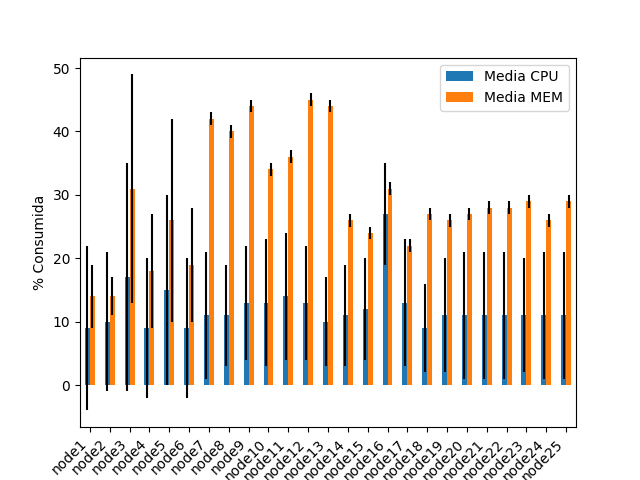
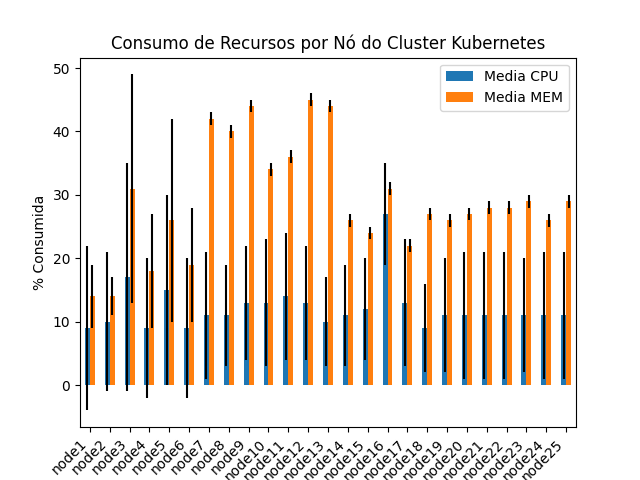
Update Graphics

Changed region(s): [[0.1562, 0.0625, 0.8438, 0.125]]

diff --git a/performance-analysis/graphics/cluster_resources_time/plot_cluster.py b/performance-analysis/graphics/cluster_resources_time/plot_cluster.py
@@ -3,23 +3,13 @@ import matplotlib as mlp
 import matplotlib.pyplot as plt
 import os
 import numpy as np
-
 os.chdir('performance-analysis/graphics/cluster_resources_time/')
-
 dataframe = pd.read_csv('Cluster_Resources.csv',  delimiter=';', header=0)
-plt.plot(dataframe['Time'],dataframe['Media_CPU'], label='% Media CPU')
-plt.plot(dataframe['Time'],dataframe['Media_MEM'], label='% Media MEM')
+plt.plot(dataframe['Time'],dataframe['Media_CPU'], label='% Media CPU',color='b')
+plt.plot(dataframe['Time'],dataframe['Media_MEM'], label='% Media MEM',color='r')
 plt.legend()
 plt.xlabel("Tempo")
 plt.ylabel("% Consumode Recursos")
 plt.title("Consumo de Recursos Médio por Nó K8S em função do Tempo")
-plt.show()
-
-
-
-
-
-
-print(dataframe)
-
+plt.savefig('out/Cluster_Resources.png')
 plt.show()
